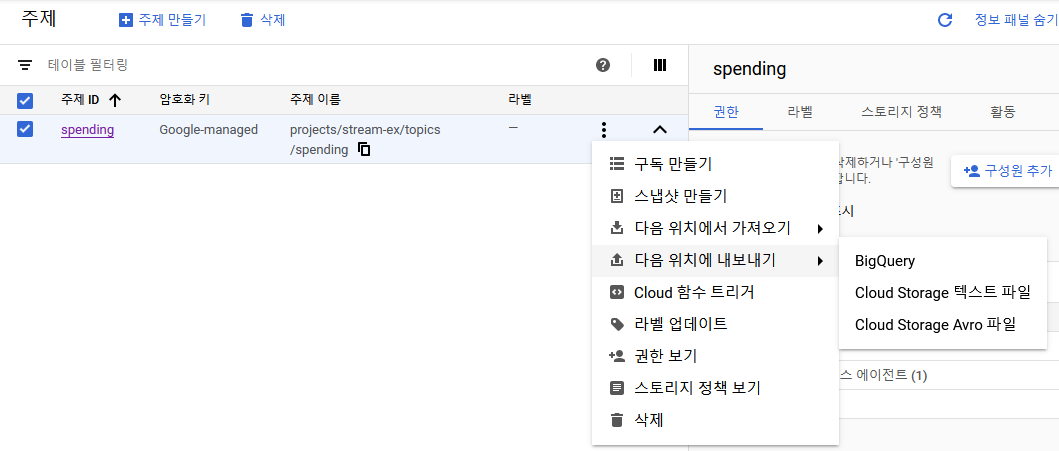
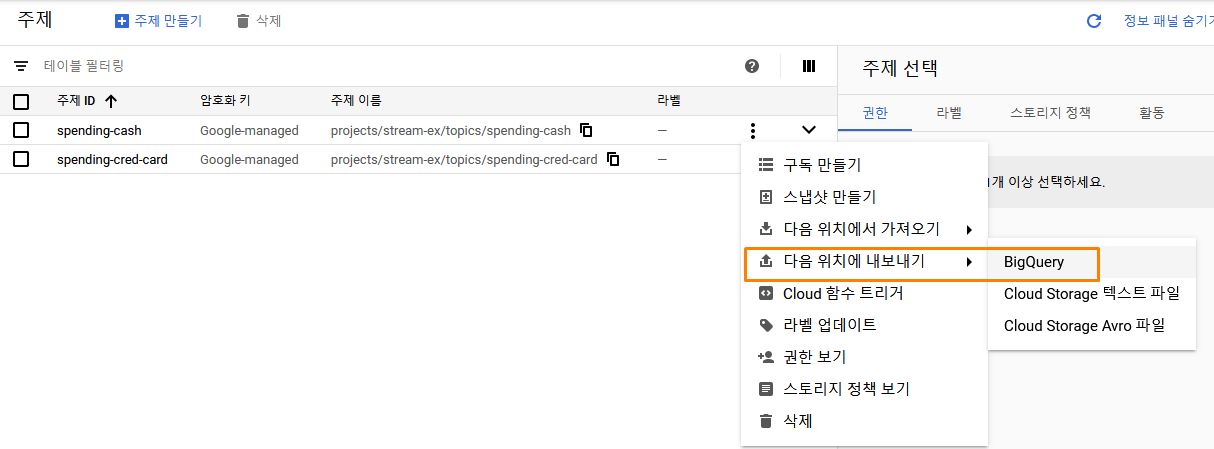
gcp

diff --git a/.resources/gcp_stream_processing/spending.js b/.resources/gcp_stream_processing/spending.js
@@ -1,17 +1,3 @@
-// Copyright 2016 Google LLC
-//
-// Licensed under the Apache License, Version 2.0 (the "License");
-// you may not use this file except in compliance with the License.
-// You may obtain a copy of the License at
-//
-//      http://www.apache.org/licenses/LICENSE-2.0
-//
-// Unless required by applicable law or agreed to in writing, software
-// distributed under the License is distributed on an "AS IS" BASIS,
-// WITHOUT WARRANTIES OR CONDITIONS OF ANY KIND, either express or implied.
-// See the License for the specific language governing permissions and
-// limitations under the License.
-
 'use strict';
 
 // [START functions_pubsub_publish]
@@ -20,64 +6,41 @@ const {PubSub} = require('@google-cloud/pubsub');
 // Instantiates a client
 const pubsub = new PubSub();
 
-/**
- * Publishes a message to a Cloud Pub/Sub Topic.
- *
- * @example
- * gcloud functions call publish --data '{"topic":"[YOUR_TOPIC_NAME]","message":"Hello, world!"}'
- *
- *   - Replace `[YOUR_TOPIC_NAME]` with your Cloud Pub/Sub topic name.
- *
- * @param {object} req Cloud Function request context.
- * @param {object} req.body The request body.
- * @param {string} req.body.topic Topic name on which to publish.
- * @param {string} req.body.message Message to publish.
- * @param {object} res Cloud Function response context.
- */
 exports.publish = async (req, res) => {
-  if (!req.body.message) {  
-    res
-      .status(400)
-      .send(
-        'Missing parameter(s); include "topic" and "message" properties in your request.'
-      );
+  if (!req.body) {  
+    res .status(400).send('nobody');
     return;
   }
 
   console.log(`Publishing message to topic projects/stream-ex/topics/spending`);
 
-  // References an existing topic
-  const topic = pubsub.topic('projects/stream-ex/topics/spending');
-
-  const messageObject = {
-    data: {
-      message: req.body.message,
-    },
-  };
+  const messageObject = JSON.parse(req.body);
+  messageObject['collect_time'] = Date.now();
   const messageBuffer = Buffer.from(JSON.stringify(messageObject), 'utf8');
+
+  // References an existing topic
 
   // Publishes a message
   try {
-    await topic.publish(messageBuffer);
-    res.status(200).send('Message published.');
+    if (req.query['type'] == 'cash') {
+      const topic = pubsub.topic('projects/stream-ex/topics/spending-cash');      
+      await topic.publish(messageBuffer);
+      console.log('Message published to cash topic');
+      res.status(200).send('Message published to cash topic');      
+      
+    } else if (req.query['type'] == 'creditCard') {
+      const topic = pubsub.topic('projects/stream-ex/topics/spending-cred-card');
+      await topic.publish(messageBuffer);
+      console.log('Message published to credit card topic');
+      res.status(200).send('Message published to credit card topic');
+      
+    } else {
+      console.log('Bad spending type');
+      res.status(400).send('Bad spending type');      
+    }
   } catch (err) {
-    console.error(err);
-    res.status(500).send(err);
-    return Promise.reject(err);
+      console.error(err);
+      res.status(500).send(err);
+      return Promise.reject(err);
   }
 };
-// [END functions_pubsub_publish]
-
-// [START functions_pubsub_subscribe]
-/**
- * Triggered from a message on a Cloud Pub/Sub topic.
- *
- * @param {object} pubsubMessage The Cloud Pub/Sub Message object.
- * @param {string} pubsubMessage.data The "data" property of the Cloud Pub/Sub Message.
- */
-exports.subscribe = pubsubMessage => {
-  // Print out the data from Pub/Sub, to prove that it worked
-  console.log(Buffer.from(pubsubMessage.data, 'base64').toString());
-};
-// [END functions_pubsub_subscribe]
-

diff --git a/flink.md b/flink.md
@@ -1,48 +1,12 @@
-# Flink
+# Google Cloud Stream Processing
 
 ## 필자 수준
 
-글 작성자가 가진 flink 에 대한 경험은 샘플 몇개 실행하고서 UI 구경해본게 전부이다. 하지만 hot 하다고들 하니 일단 배경 지식부터 좀 쌓고, 어떤 use case 하나 가정해서 코딩해보는 기로 했다. 돌이켜보면 storm이든 spark이든 처음에 워드카운트 돌려보고서 알 수 있는 건 아무것도 없고 일단 어느정도 개념을 쌓아야 했다. 그나저나 왜 워드카운트를 가장 먼저 샘플로 내세우는 걸까?
+참고로 빅쿼리에 벌크업로드 정도 해본 정도이며 오늘 소개하는 건 전부 처음 해보는 것임. 실제 내용도 별거 없음
 
-## 어떻게 접근할까?
+## 오늘 다룰 내용의 공식 문서
 
-어떤 식으로 flink 에 접근할지 고민이 됐다.
-
-0. Akka 에 기반하고 있다고 하니 actors 패턴부터 시작해서 플랫폼 내부에 대해서 다룰까? [Akka and Actors](https://cwiki.apache.org/confluence/display/FLINK/Akka+and+Actors)
-1. 스트림 프로세싱에 대한 배결설명부터 설명할까?
-2. 대표적인 use case 를 잡고 설명할까?
-3. 다 됐고 쉬운 것으로 hands on을 할까?
-
-사실 마음같아서는 다하고 싶지만 막상 하나도 제대로 작성할 능력이 안되는 게 현실이다. 그래서 비교적 쉬운 방식인 (하지만 가장 지루한 방식인) 1번으로 하기로 했다.
-
-필자가 너무 무식한 사람으로 깔고 시작했는데 그래도 아주 오래전에 storm, kafka 등의 스트림 프로세싱 툴을 운영하고 코딩도 해봤다.
-
-## 배경 지식
-
-### 배치 프로세싱 vs 스트림 프로세싱
-
-[아파치 실시간 처리 프레임워크 비교분석 (1) - popit.kr](https://www.popit.kr/%EC%95%84%ED%8C%8C%EC%B9%98-%EC%8B%A4%EC%8B%9C%EA%B0%84-%EC%B2%98%EB%A6%AC-%ED%94%84%EB%A0%88%EC%9E%84%EC%9B%8C%ED%81%AC-%EB%B9%84%EA%B5%90%EB%B6%84%EC%84%9D-1/)
-
-[아파치 실시간 처리 프레임워크 비교분석 (2) - popit.kr](https://www.popit.kr/%EC%95%84%ED%8C%8C%EC%B9%98-%EC%8B%A4%EC%8B%9C%EA%B0%84-%EC%B2%98%EB%A6%AC-%ED%94%84%EB%A0%88%EC%9E%84%EC%9B%8C%ED%81%AC-%EB%B9%84%EA%B5%90%EB%B6%84%EC%84%9D-2/)
-
-
-### 스트림 프로세싱
-
-### 스트림 프로세싱 플랫폼 비교
-
-
-
-## Flink
-
-### 구조
-
-### 프로그래밍 모델
-
-### 간단한 모델
-
-## 시작
-
-우선 참고 문서. 백서이긴 하지만 내용은 읽기 불편하지 않다.
+백서이긴 하지만 내용은 읽기 불편하지 않다.
 
 [Google Streaming Analytics Platform White Paper](https://services.google.com/fh/files/misc/google-streaming-analytics-platform.pdf)
 
@@ -50,11 +14,15 @@
 
 ### 가입
 
-최초 사용시 90일간 300$을 자유롭게 사용할 수 있다. 카드정보를 입력하지만 자동 결제가 되지 않는다는 것을 매우 강조하고 있다. 유치한 디스로 보일 수 있다. 하지만 나역시 50만원쯤 날려먹은 기억이 있어서 유치하다고 말하기엔 자괴감이 좀 든다. AWS 쓸 땐 조심하자. 꺼진 인스턴스도 다시 봐라.
+최초 사용시 90일간 300$을 자유롭게 사용할 수 있다. 카드정보를 입력하지만 자동 결제가 되지 않는다는 것을 매우 강조하고 있다. 유치한 디스로 보일 수 있다. 하지만 AWS 50만원쯤 날려먹은 기억이 있어서 유치하다고 말하기엔 자괴감이 좀 든다. AWS 쓸 땐 조심하자. 꺼진 인스턴스도 다시 봐라.
 
 다음 화면이 나올때까지 정보들을 입력하자 입력하자.
 
 ![GCP 가입](.resources/gcp_stream_processing/gcp_register.png)
+
+## 만들어보자
+
+### 만들 것 요약
 
 백서 내용 중 아래 아키텍처로 구성할 거다.
 
@@ -62,34 +30,12 @@
 
 이 문서에서는 데이터적재, 파이프라인, DW / DL 의 세번째 스텝까지 실습해본다. 네번째인 advanced analytics 의 경우 비교적 특정 도메인이 적합한 서비스인데 아쉽게도 저 중에 내가 아는 분야가 없다. 나열된 단어중 사용할 서비스는 다음과 같다.
 
-- `Cloud Pub/Sub` Kafka 같은 거
-- `Cloud Dataflow` Stream Processing. Apache beam 기반의 managed service. [Cloud Dataproc vs Cloud Dataflow](https://dong-life.tistory.com/58)
-- `BigQuery` 성능 좋은 DB
-
-추가로 데이터를 수집하고 처리하기 위해서 다음 항목도 추가
-
-- `Cloud Functions` 이것으로 데이터 수집 예정
-- `Compute Engine` 가상 머신
-
-### 참고
-
-예시를 위한 것이며 프로젝트 권한과 같은 부분은 다루지 않음
-
-## 만들어보자
-
-### 만들 것 요약
-
-데이터 처리 시스템에 사용되는 서비스
-
-1. `Cloud Functions` Json 데이터를 web 으로 수신한 후 pub/sub 으로 publish
-2. `Pub/Sub` Message queue
-3. `DataFlow` Pub/Sub의 메세지를 파싱하여 bigquery 테이블에 저장
-4. `BigQuery` DW
-
-그외 다음 서비스도 이용한다.
-
-- `Compute Engine` 테스트를 위해 json 데이터 발송
-- `Cloud Build API` Cloud Functions 를 빌드 배포 (?)
+1. `Cloud Pub/Sub` Kafka 같은 거
+2. `Cloud Dataflow` Apache beam 기반의 managed service. [Cloud Dataproc vs Cloud Dataflow](https://dong-life.tistory.com/58)
+3. `BigQuery` 성능 좋은 DB
+4. `Cloud Functions` 이것으로 데이터 수집 예정
+5. `Compute Engine` 가상 머신
+6. `Storage` Object storage. Dataflow 임시 파일을 저장할 목적으로 사용함
 
 ### 우선 프로젝트 생성
 
@@ -136,7 +82,7 @@ Pubsub 주제 생성
 
 다음을 누르면 코드 inline editor가 나온다. 직접 업로드하거나 GCS에 올려두고 쓸수도 있는데 길지 않은 코드이니 직접 입력하자. 무슨 언어로 하지? 아는건 java 밖에 없는데, 그래도 정석대로 js로 가자. (기본이 node.js 10 이기도 하고)
 
-inline 에디터에는 아래 껍데기 코드가 있다.
+초기 inline 에디터에는 아래 껍데기 코드가 있다.
 
 ```js
 /**
@@ -151,22 +97,120 @@ exports.helloWorld = (req, res) => {
 };
 ```
 
-Inline editor에서 직접 코드를 작성할까 생각했지만 cloud build api가 따로 존재하는 걸 보면 이거 배포할때마다 과금당할 듯한 느낌이 든다. Pubsub 보내는 것을 제외하고는 오프라인에서 작성하자. Pubsub 으로 publishing는 코드는 아래 문서를 작성하자.
-
 [메시지를 pubsub 주제에 게시](https://cloud.google.com/pubsub/docs/publisher?hl=ko#publishing_messages)
 
+아래는 cash테이블과 credit-card 테이블에 적재될 json을 받아서 pubsub으로 publish 하는 cloud function 코드. 각종 node js 샘플은 여기를 참고: [github://GoogleCloudPlatform/nodejs-docs-samples](https://github.com/GoogleCloudPlatform/nodejs-docs-samples)
+
 ```js
-const http = require('http');
-const message = '{"Hello": "World"}'
+'use strict';
 
-const server = http.createServer((req, res) => {
-  res.statusCode = 200;
-  res.setHeader('Content-Type', 'text/plain');
-  var messageJson = JSON.parse(message);
-  res.end(JSON.stringify(messageJson));
-});
+// [START functions_pubsub_publish]
+const {PubSub} = require('@google-cloud/pubsub');
 
-server.listen(8080, '127.0.0.1', () => {
-  console.log(`Server running at http://127.0.0.1:8080/`);
-});
+// Instantiates a client
+const pubsub = new PubSub();
+
+exports.publish = async (req, res) => {
+  if (!req.body) {  
+    res .status(400).send('nobody');
+    return;
+  }
+
+  console.log(`Publishing message to topic projects/stream-ex/topics/spending`);
+
+  const messageObject = JSON.parse(req.body);
+  messageObject['collect_time'] = Date.now();
+  const messageBuffer = Buffer.from(JSON.stringify(messageObject), 'utf8');
+
+  // References an existing topic
+
+  // Publishes a message
+  try {
+    if (req.query['type'] == 'cash') {
+      const topic = pubsub.topic('projects/stream-ex/topics/spending-cash');
+      await topic.publish(messageBuffer);
+      console.log('Message published to cash topic');
+      res.status(200).send('Message published to cash topic');
+
+    } else if (req.query['type'] == 'creditCard') {
+      const topic = pubsub.topic('projects/stream-ex/topics/spending-cred-card');
+      await topic.publish(messageBuffer);
+      console.log('Message published to credit card topic');
+      res.status(200).send('Message published to credit card topic');
+
+    } else {
+      console.log('Bad spending type');
+      res.status(400).send('Bad spending type');
+    }
+  } catch (err) {
+      console.error(err);
+      res.status(500).send(err);
+      return Promise.reject(err);
+  }
+};
 ```
+
+### PubSub 2 BigQuery Dataflow 설정
+
+spending-cash 주제를 빅쿼리 spending:cash 테이블에 적재해보자.
+
+![stream-ex](.resources/gcp_stream_processing/pubsub_to_dataflow.png)
+
+만드는 창이 뜨면 적절한 정보를 입력한 후 생성.
+
+- `작업이름` unique한 이름. 사전에 입력되어 있음.
+- `리전 엔드포인트` us-central1
+- `Dataflow 템플릿` Pub/Sub Topic to Bigquery. 입력되어 있음
+- `필수 매개변수` 데이터를 가져올 토픽. 입력되어 있음.
+- `BigQuery output table` 데이터를 저장할 테이블 입력. stream-ex:spending.cash
+- `임시 위치` Dataflow 도중 생성되는 임시 파일을 저장할 gs 주소
+
+생성하고 나면 아래 그림처럼 dataflow의 작업 그래프가 나오며 메세지가 어떻게 처리되는지 보여준다. 사실 처음엔 apache nifi ([demo](https://www.youtube.com/watch?v=4yBc7hHvaQU)) 처럼 작업 그래프상에서 뭔가 편집 가능할 줄 알고 감탄했는데 그렇지는 않았다. 그냥 모니터링용.
+
+![stream-ex](.resources/gcp_stream_processing/dataflow_graph.png)
+
+### 테스트 해 봅시다
+
+우선 curl로 하나 보내보자. Cloud shell 터미널 실행하고 다음 명령어 입력 (우상단에 >_ 이렇게 생긴 아이콘클릭) application/json이 아니라 text/plain인 이유는 묻지 마라. json으로 보내니까 제대로 처리가 안되는게 아마도 cloud function의 js 코드가 잘못된 듯 한데 삽질하고 싶지 않았다. 게으른게 부끄러운 건 아니잖아.
+
+```bash
+curl -X POST "https://us-central1-stream-ex.cloudfunctions.net/spending-ingest?type=cash" -H "Content-Type: text/plain" -d '{"consumer": "consumer-1", "amount": "100000", "merchant": "불란서 제빵소", "spending_time": "2020-01-01"}'
+```
+
+운이 좋다면 shell을 볼 수 있겠지만 개인적으로는 안될때가 더 많았다. 안되면 인스턴스에서 테스트하자.
+
+그리고 미리 만들어둔 테스트용 jar로 여러개의 데이터를 보내보다. jar는 미리 빌드해서 gs에 올려뒀다.
+
+1. java 설치
+2. gsutil 로 storage 에 저장된 jar 다운로드
+3. 실행
+
+```bash
+sudo apt-get install openjdk-11-kdk
+gsutil cp gs://spending-resource/jsongen-jar-with-dependencies.jar .
+java -cp jsongen-jar-with-dependencies.jar net.youngrok.jsongen.JsonGenApp
+```
+
+### credit card 테이블 적재
+
+Dataflow를 하나 더 띄워서 credit card 도 적재해볼까? Cash에 입력할때와 동일하게 실행! 하면 짤없이 실패한다. 다음은 에러 메세지 내용이다.
+
+```text
+Workflow failed. Causes: Project stream-ex has insufficient quota(s) to execute this workflow with 1 instances in region us-central1. Quota summary (required/available): 1/6 instances, 4/3 CPUs, 1230/808 disk GB, 0/250 SSD disk GB, 1/99 instance groups, 1/49 managed instance groups, 1/99 instance templates, 1/2 in-use IP addresses.
+```
+
+4/3 CPUs 라는 부분이 눈에 띈다. VCPU 4개가 필요한데 3개밖에 여유가 없어서 dataflow를 만들 수 없다는 뜻이다. Compute Engine 대시보드에 가보면 ps-to-bq-spending-cash... 이라는 내가 만든건 아니지만 익숙한 이름의 인스턴스가 하나 있다. 바로 DataFlow가 동작하기 위해서 필요한 인스턴스이고, 4CPU 를 사용한다. 테스트 계정은 CPU 리밋이 8로 걸려 있고 변경할 수도 없기 때문에 dataflow를 하나 더 돌리려면 instance를 없애야 한다. 그렇다면 dataflow는 managed service일까 아닐까?
+
+![dataflow-instance](.resources/gcp_stream_processing/dataflow_vm_instance.png)
+
+### 그러면 어쩌지
+
+그래도 적재하고 싶은데. 지금까지 코딩하고 스샷 뜬게 너무 아까운데.. 다음 정도가 생각났지만 전부다 하지 말아야할 필계가 생각났기 때문에 그냥 포기
+
+1. 돈내고 CPU 제한을 푼다. --> 내가 왜?
+2. Bean SDK로 코딩해서 두개의 pipeline을 하나에 dataflow에 구동한다. --> 될지 확신이 없음.
+3. Pubsub 가져와서 bigquery로 내보내는 java app 작성. --> 의미 없는 일이라 생각해서 조금하다가 관둠.
+
+## 결론
+
+없음. 사실 튜토리얼이란게 딱히 결론 내리는 글은 아니잖아.
